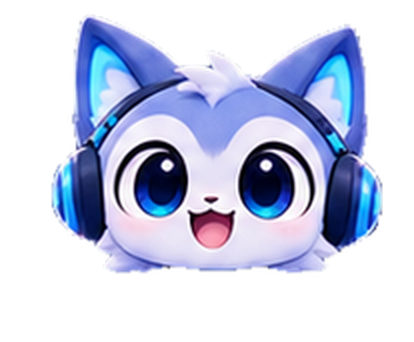
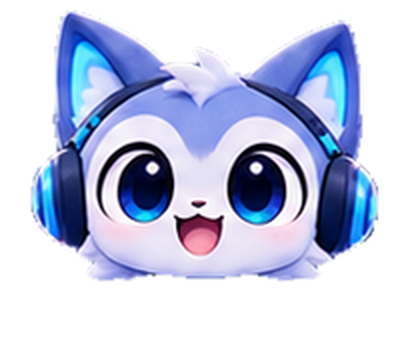
fix(art): normalise expression scale, fade the chest cut, hide the floating ring
The sheet draws each bust at a different size, so crossfading states popped; the slicer now measures the face band and rescales about the head anchor (spread 1px). The bust also stops in a hard line where the label chip was, so alpha fades the last fifth. The status ring has no tail to attach to in placeholder art, so it is hidden until the layered rig exists.

diff --git a/src/ui/ui.css b/src/ui/ui.css
@@ -38,11 +38,13 @@
 }
 
 /* ---- tail status light ----
-   Placeholder: the art is one flat image, so the status shows as a ring near the
-   tail instead of lighting the tail itself. No blur, no blend modes. */
+   Placeholder: the art is one flat image with no tail, so the ring cannot attach
+   to anything and floats beside the bust. Hidden until the layered rig exists;
+   the state still shows through the expression. No blur, no blend modes. */
 .status-light {
   --light-a: var(--cyan-glow);
   --light-b: var(--blue);
+  display: none;
   position: absolute;
   left: 2%;
   bottom: 6%;

diff --git a/scripts/art/slice_sheet.py b/scripts/art/slice_sheet.py
@@ -15,7 +15,7 @@ from collections import deque
 from datetime import date
 from pathlib import Path
 
-from PIL import Image, ImageFilter
+from PIL import Image, ImageChops, ImageFilter
 
 ROOT = Path(__file__).resolve().parents[2]
 SHEET = ROOT / "assets" / "ref" / "ANU_sheet.png"
@@ -143,7 +143,9 @@ def cutout(img, box, keep_ratio=0.0, min_island=0.0):
     # erode one pixel so the navy antialias fringe dies, then soften the edge
     alpha = alpha.filter(ImageFilter.MinFilter(3))
     if min_island:
-        prune_islands(alpha, min_island)
+        dropped = prune_islands(alpha, min_island)
+        if dropped:
+            print(f"    dropped detached island(s), areas {[a for a, _ in dropped]}")
     alpha = alpha.filter(ImageFilter.GaussianBlur(FEATHER))
     out = img.crop(box).convert("RGBA")
     out.putalpha(alpha)
@@ -154,25 +156,60 @@ def bbox(rgba):
     return rgba.getchannel("A").getbbox()
 
 
-def head_width(rgba):
-    """Median silhouette width across the mid-head band, in pixels.
+def prune_islands(alpha, ratio):
+    """Zero every alpha island smaller than ratio * the largest one, in place.
 
-    The design sheet draws each expression at a slightly different size (266 to
-    326 px here), so crossfading raw crops pops. The band runs from 25% to 55%
-    of the bbox height, which spans the headphone cups and cheeks and skips both
-    the ear tips and the chin, so the number is stable against head tilt.
+    The 1px erode can snap a hair-thin attachment (a border line, a stray fx
+    stroke) off the body; those leftovers are what leaves a ghost next to the
+    character. Components are read off the mask, so anything still attached to
+    the body - a raised paw, the hoodie, the tail - is one island and survives.
+    """
+    w, h = alpha.size
+    px = alpha.load()
+    bg = [[px[x, y] == 0 for x in range(w)] for y in range(h)]
+    labels, blobs = components(bg, w, h)
+    if len(blobs) < 2:
+        return []
+    limit = blobs[0][1] * ratio
+    kept = {b[0] for b in blobs if b[1] >= limit}
+    for y in range(h):
+        row = labels[y]
+        for x in range(w):
+            if row[x] and row[x] not in kept:
+                px[x, y] = 0
+    return [(a, bb) for nid, a, bb in blobs if nid not in kept]
+
+
+def face_span(rgba, th=127):
+    """Widest alpha run across one row of the face band, in pixels.
+
+    Half-open (last - first column) so the number matches what is measured on
+    the written 2x PNG. The band sits below the ears and above the chin, on the
+    cheeks and headphone cups, so it tracks character scale rather than the
+    silhouette of the expression.
     """
     alpha = rgba.getchannel("A")
-    ox, oy = alpha.getbbox()[:2]
-    b = alpha.getbbox()
-    top, height = oy, b[3] - oy
-    widths = []
-    for y in range(top + int(height * 0.25), top + int(height * 0.55)):
-        xs = [x for x in range(alpha.width) if alpha.getpixel((x, y)) > 16]
+    l, t, r, b = alpha.getbbox()
+    px = alpha.load()
+    best = 0
+    for y in range(t + int((b - t) * FACE_BAND[0]), t + int((b - t) * FACE_BAND[1])):
+        xs = [x for x in range(alpha.width) if px[x, y] > th]
         if xs:
-            widths.append(xs[-1] - xs[0] + 1)
-    widths.sort()
-    return widths[len(widths) // 2] if widths else 0
+            best = max(best, xs[-1] - xs[0])
+    return best
+
+
+def scaled_about(rgba, k, ax, top, m=4):
+    """LANCZOS-resize by k about the head anchor, returning the new anchor.
+
+    A pad of m transparent rows/cols goes on first, so a scale-up cannot lose
+    an edge pixel to the cell box the crop came from. The anchor is mapped
+    through the same resize, so the composite keeps the head where it was.
+    """
+    big = Image.new("RGBA", (rgba.width + 2 * m, rgba.height + 2 * m), (0, 0, 0, 0))
+    big.paste(rgba, (m, m))
+    big = big.resize((round(big.width * k), round(big.height * k)), Image.LANCZOS)
+    return big, (k * (ax + m), k * (top + m))
 
 
 def upscale_save(rgba, path):
@@ -185,6 +222,23 @@ def pad(rgba, p=PAD):
     canvas = Image.new("RGBA", (rgba.width + 2 * p, rgba.height + 2 * p), (0, 0, 0, 0))
     canvas.paste(rgba, (p, p))
     return canvas
+
+
+def fade_bottom(rgba, start=0.80):
+    """Ramp the alpha to 0 over the last fifth of the image.
+
+    The sheet draws each expression bust on top of its label chip, so the crop
+    ends in a hard horizontal cut across the chest. Fading it out turns that cut
+    into a bust that dissolves into the desktop instead of ending in a line.
+    """
+    w, h = rgba.size
+    y0 = int(h * start)
+    ramp = Image.new("L", (1, h), 255)
+    rp = ramp.load()
+    for y in range(y0, h):
+        rp[0, y] = int(255 * (1 - (y - y0) / max(1, h - 1 - y0)) ** 1.6)
+    ramp = ramp.resize((w, h))
+    rgba.putalpha(ImageChops.multiply(rgba.getchannel("A"), ramp))
 
 
 def main():
@@ -223,26 +277,12 @@ def main():
         encoding="utf-8",
     )
 
-    # ---- expressions: one shared canvas, anchored on the head --------------
-    cuts = {}
+    # ---- expressions: one shared canvas, one character scale --------------
+    cuts, scales, spans, heads = {}, {}, {}, {}
     for name, box in CELLS.items():
-        rgba, keep = cutout(img, box, keep_ratio=0.05)
-        cuts[name] = rgba
-        print(f"  {name}: blobs kept {len(keep)}")
-
-    # The sheet draws each expression at a slightly different size; scale them
-    # to one median head width so the crossfade between states does not pop.
-    widths = {n: head_width(c) for n, c in cuts.items()}
-    target = sorted(widths.values())[len(widths) // 2]
-    for name, rgba in list(cuts.items()):
-        f = target / widths[name]
-        if abs(f - 1) > 0.005:
-            size = (round(rgba.width * f), round(rgba.height * f))
-            cuts[name] = rgba.resize(size, Image.LANCZOS)
-            print(f"  {name}: head {widths[name]} -> {target} (x{f:.3f})")
-
-    anchors = {}
-    for name, rgba in cuts.items():
+        rgba, keep = cutout(img, box, keep_ratio=KEEP, min_island=ISLAND)
+        spans[name] = face_span(rgba)
+        scales[name] = round(FACE / spans[name], 4)
         l, t, r, b = bbox(rgba)
         # head anchor: top edge plus the horizontal centre of the top 25 rows
         # (ears + crown). Stable across expressions, unlike the full bbox which
@@ -251,25 +291,50 @@ def main():
         sw, sh = strip.size
         cols = [x for x in range(sw) if any(strip.getpixel((x, y)) > 127 for y in range(sh))]
         ax = l + (sum(cols) / len(cols) if cols else (r - l) / 2)
-        anchors[name] = (ax, t, l, r, b)
-        print(f"  {name}: bbox {(l, t, r, b)}, anchor x {ax:.1f}")
+        cuts[name], heads[name] = scaled_about(rgba, scales[name], ax, t)
+        print(f"  {name}: blobs kept (area) {[a for _, a, _ in keep]}, "
+              f"face {spans[name] * 2} -> {FACE * 2} px 2x, x{scales[name]:.4f}")
+
+    anchors = {}
+    for name, rgba in cuts.items():
+        l, t, r, b = bbox(rgba)
+        anchors[name] = (heads[name][0], t, l, r, b)
 
     L = max(ax - l for ax, t, l, r, b in anchors.values())
     R = max(r - ax for ax, t, l, r, b in anchors.values())
     B = max(b - t for ax, t, l, r, b in anchors.values())
-    pad_px = 6
-    W, H = int(round(L + R)) + 2 * pad_px, int(round(B)) + 2 * pad_px
-    print(f"  shared expression canvas: {W}x{H}")
+    W, H = EXPR_CANVAS
+    pad_x = max(0, (W - int(round(L + R))) // 2)
+    pad_y = max(0, (H - int(round(B))) // 2)
+    print(f"  shared expression canvas: {W}x{H} (2x: {W * 2}x{H * 2}), "
+          f"content {int(round(L + R))}x{int(round(B))}, pad {pad_x}/{pad_y}")
+    if round(L + R) > W or round(B) > H:
+        print("  WARNING: content does not fit the fixed canvas and would clip")
 
     for name, rgba in cuts.items():
         ax, top, l, r, b = anchors[name]
-        off_x = int(round(ax - L)) - pad_px   # relative to the cell box
-        off_y = top - pad_px
+        off_x = int(round(ax - L)) - pad_x   # relative to the cell box
+        off_y = top - pad_y
         canvas = Image.new("RGBA", (W, H), (0, 0, 0, 0))
         # crop outside the cell box is transparent, so this stays aligned even
         # when the shared canvas is wider than a narrow cell
         canvas.alpha_composite(rgba.crop((off_x, off_y, off_x + W, off_y + H)))
+        fade_bottom(canvas)
         upscale_save(canvas, STATES / f"{name}.png")
+
+    # ---- verify: the six must crossfade at one character scale ------------
+    written = {}
+    for name in CELLS:
+        out = Image.open(STATES / f"{name}.png")
+        written[name] = face_span(out)
+        alpha = out.getchannel("A")
+        clear = alpha.histogram()[0] * 100.0 / (alpha.width * alpha.height)
+        print(f"    {name:<10} {round(spans[name] * 2):3d} -> {written[name]:3d} px  "
+              f"x{scales[name]:.4f}  transparent {clear:5.1f}%  {out.size[0]}x{out.size[1]}")
+    lo, hi = min(written.values()), max(written.values())
+    mean = sum(written.values()) / len(written)
+    print(f"    face width spread {hi - lo} px = {(hi - lo) * 100.0 / mean:.1f}% "
+          f"({'OK' if (hi - lo) * 100.0 / mean <= 3 else 'ABOVE 3%'})")
 
     # ---- front view --------------------------------------------------------
     front, _ = cutout(img, FRONT_BOX)

diff --git a/docs/ART_TODO.md b/docs/ART_TODO.md
@@ -24,22 +24,24 @@ identical SHA-256 hashes).
 | `assets/states/hero.png` | Large hero pose (sitting, tail visible) | Hero character, left of sheet | PLACEHOLDER crop |
 | `assets/icons/tray.png` | 32×32 tray icon | Head crop of the front view | PLACEHOLDER crop |
 
-All six expression files are **414×342** and share one canvas, one character
+All six expression files are **402×342** and share one canvas, one character
 scale and one head anchor (top edge + horizontal centre of the ears/crown). They
 can be cross-faded without the head jumping. The sheet draws each expression bust
-slightly differently sized (head width 266–326 px at source), so the slicer
-measures the mid-head silhouette and rescales each one to the shared median
-before composing; measured spread after the pass is under 1 %. Label chips, panel
-borders and the decorative sparkle / `?` / `zzz` / `!` marks were removed from the
-crops.
+slightly differently sized (face span 320–366 px at source), so the slicer
+measures the widest row through the face band and rescales each bust about the head
+anchor to the shared median. Measured spread after the pass is 1 px (0.3 %).
+Label chips, panel borders and the decorative sparkle / `?` / `zzz` / `!` marks were
+removed from the crops, and the last fifth of every bust is alpha-faded so the flat
+cut across the chest dissolves instead of ending in a line.
 
 Known limits of the placeholders:
 
 - The sheet draws each expression bust against the label chip, so the bottom of
-  the chest is a flat cut (the body pixels behind the chip do not exist).
+  the chest is a flat cut (the body pixels behind the chip do not exist). It is
+  softened by the alpha fade, not fixed.
 - `thinking.png` keeps a ~5 px sliver of the shoulder/chin contour because it is
-  connected to the head in the source, so the blob filter cannot drop it. It sits
-  below the chin and is not visible at the size the app draws the character.
+  connected to the head in the source, so the island filter cannot drop it. It sits
+  below the chin and is barely visible at the size the app draws the character.
 - `front.png` and `hero.png` are trimmed to alpha bounds + 8 px padding.
 - Every state file is upscaled 2× with LANCZOS from the sheet. There is no more
   detail in the sheet than this; do not upscale further.
